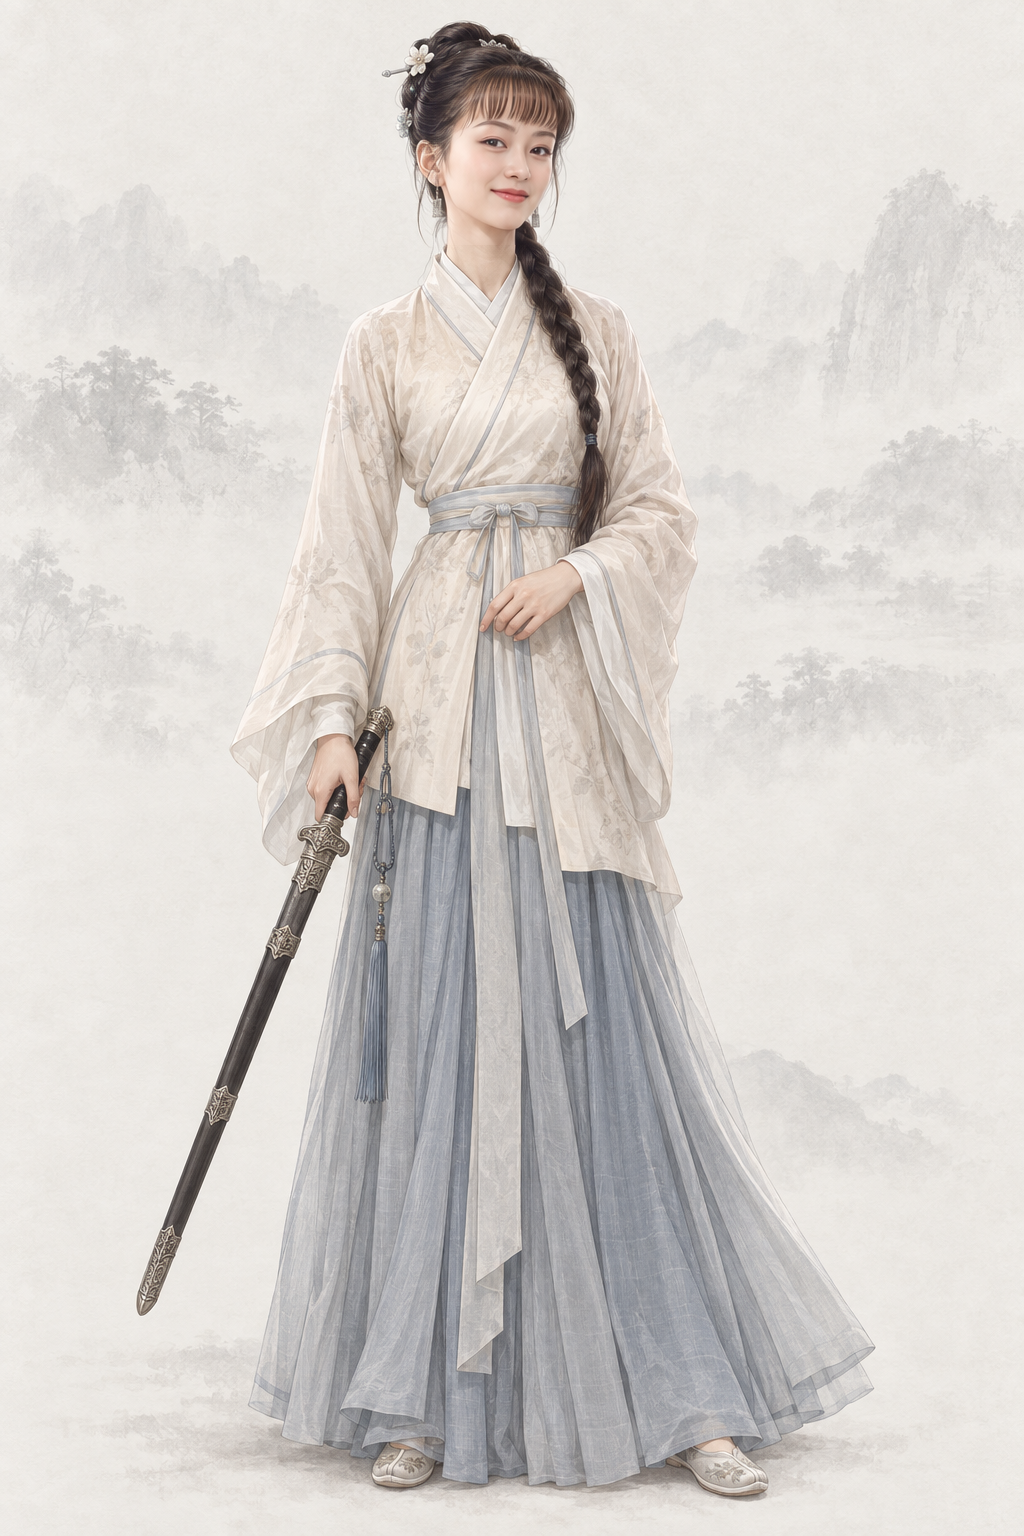
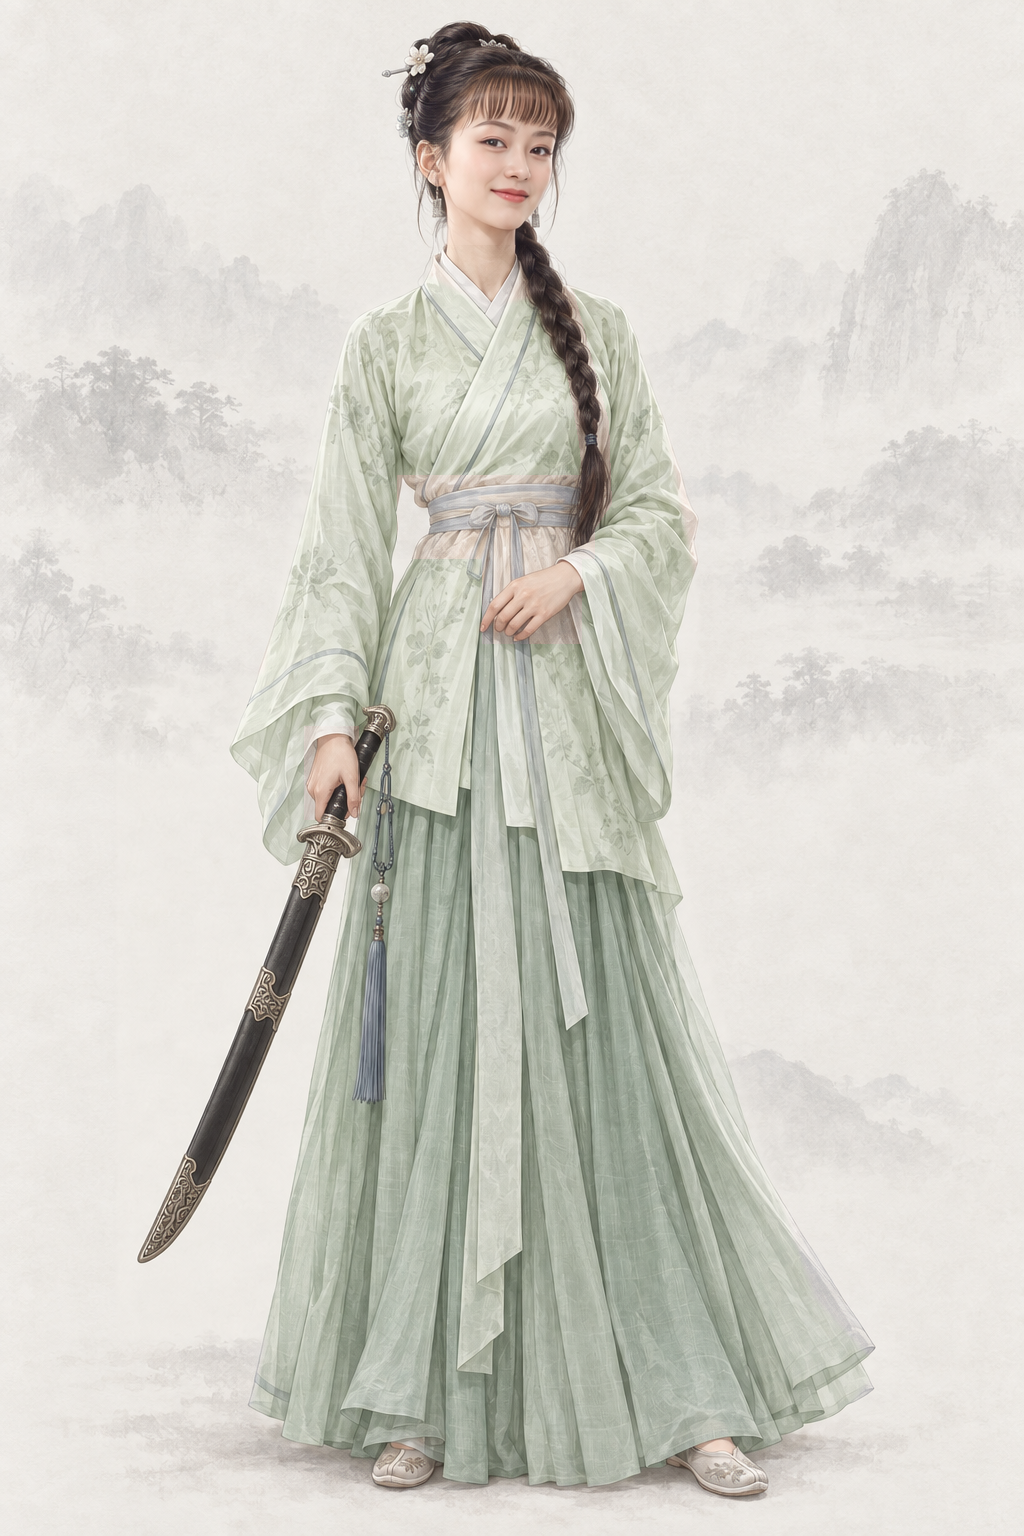
assets: AR-82 原著核对返修 阿珂初遇淡绿衣与柳叶单刀
阿珂初遇淡绿衣与柳叶单刀；原著摘句已同步提示词；蒙版外变化0像素。

Executed-By: Codex gpt-6.1-sol（AR-82）

diff --git a/assets/default/prompts/characters/ch08-luding/npc_ake.md b/assets/default/prompts/characters/ch08-luding/npc_ake.md
@@ -32,6 +32,12 @@ reference_upload:
 
 # 阿珂 · 人物写实修正
 
+## AR-82 当前定稿要求
+
+阿珂初遇江湖阶段：只把米白上衣与灰蓝长裙主色换为淡绿衣衫，衣褶、廓形、腰带和原脸神情发式保持。手中现直双刃长剑连鞘改为一柄柳叶式单刀及相应略弯刀鞘，单刃刀而非直双刃剑；佩握的位置与手姿不变，不额外加第二把兵器。原头脸、辫子、鞋与双手不变。
+
+以上为当前原著核对后的要求，覆盖下文旧版中与之冲突的服饰、器物、伤残、光线和体态描述。
+
 ## Gemini 提示词
 
 > 2026-10-02 AR-32 经典剧照重出（6 号出图员，codex exec · image_gen 出图）：上传该角色经典影视版剧照 1 张（1998 年 TVB《鹿鼎记》：ake_1998_liangxiaobing.jpg）在前、两张同性别基线在后。剧照只借鉴发型、服饰、配色、标志道具、气质与面部特征，重新绘制成项目画风，不照搬照片的构图、光影和姿势；人物一律成年。提示词里不写演员名。上一版提示词保留在下一节作历史。
@@ -157,3 +163,9 @@ FINAL POSE CHECK: FRONT-FACING A KE / 阿珂. Keep forehead–nose–chin centre
 - 采用作者授权宽松自查；偏差如实记录，candidate不代表approved。
 - 源PNG通常为1024×1536 RGB；其他原生2:3尺寸如实登记，原字节保存，不裁切、重编码、放大或去除溯源。
 - 完整请求、实际参考哈希及旧版本备份见 `.agents/coord/portrait-generation/identity-20261001/por_npc_ake__ch08_youth_base.prepared.json`。
+
+## 原著依据
+
+- 《鹿鼎记》二十二《老衲山中移漏处，佳人世外改妆时》：“身穿淡绿衣衫”（https://xuges.com/WUXIA/jinyong/ldj/164.htm）
+- 《鹿鼎记》二十三《天生才士定多癖，君与此图皆可传》：“二女双刀挥舞”（https://xuges.com/WUXIA/jinyong/ldj/170.htm）
+- AR-82 返修约束：阿珂初遇江湖阶段：只把米白上衣与灰蓝长裙主色换为淡绿衣衫，衣褶、廓形、腰带和原脸神情发式保持。手中现直双刃长剑连鞘改为一柄柳叶式单刀及相应略弯刀鞘，单刃刀而非直双刃剑；佩握的位置与手姿不变，不额外加第二把兵器。原头脸、辫子、鞋与双手不变。
